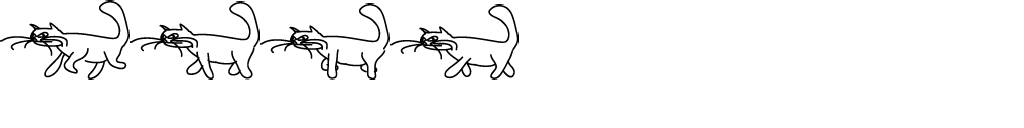
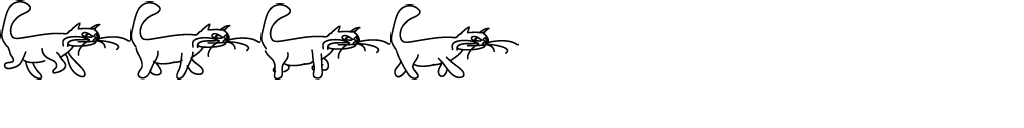
main menu and animation fixes

Changed region(s): [[0.0, 0.0, 0.5312, 0.625]]

diff --git a/Vandalism-Tomatos-core/src/com/turtleGames/vandalism/tomatos/screens/MainMenuScreen.java b/Vandalism-Tomatos-core/src/com/turtleGames/vandalism/tomatos/screens/MainMenuScreen.java
@@ -1,0 +1,159 @@
+package com.turtleGames.vandalism.tomatos.screens;
+
+import com.badlogic.gdx.Gdx;
+import com.badlogic.gdx.Screen;
+import com.badlogic.gdx.graphics.GL20;
+import com.badlogic.gdx.graphics.OrthographicCamera;
+import com.badlogic.gdx.graphics.Texture;
+import com.badlogic.gdx.graphics.g2d.SpriteBatch;
+import com.badlogic.gdx.math.Rectangle;
+import com.badlogic.gdx.math.Vector3;
+import com.turtleGames.vandalism.tomatos.Tomatos;
+import com.turtleGames.vandalism.tomatos.entities.Background;
+
+public class MainMenuScreen implements Screen {
+
+	Tomatos game;
+
+	OrthographicCamera guiCam;
+	Rectangle playBounds;
+	Rectangle highScoreBounds;
+	Rectangle helpBounds;
+	Rectangle quitBounds;
+	Vector3 touchPoint;
+	SpriteBatch spriteBatcher;
+
+	Texture playButtonTex;
+	Texture helpButtonTex;
+	Texture highScoreButtonTex;
+	Texture quitButtonTex;
+	Texture titleTex;
+	Background background;
+
+	int state;
+
+	public MainMenuScreen(Tomatos game) {
+		this.game = game;
+
+		guiCam = new OrthographicCamera(Gdx.graphics.getWidth(),
+				Gdx.graphics.getHeight());
+		guiCam.position.set(Gdx.graphics.getWidth() / 2,
+				Gdx.graphics.getHeight() / 2, 0);
+
+		background = new Background(0, 0,
+				(Texture) game.assetManager.get("data/background.png"));
+
+		titleTex = game.assetManager.get("data/title.png", Texture.class);
+		playButtonTex = game.assetManager.get("data/play.png", Texture.class);
+		quitButtonTex = game.assetManager.get("data/quit.png", Texture.class);
+		helpButtonTex = game.assetManager.get("data/help.png", Texture.class);
+		highScoreButtonTex = game.assetManager.get("data/highscore.png",
+				Texture.class);
+
+		playBounds = new Rectangle(Gdx.graphics.getWidth() / 2
+				- playButtonTex.getWidth() / 2,
+				Gdx.graphics.getHeight() * 0.35f, playButtonTex.getWidth(),
+				playButtonTex.getHeight());
+		highScoreBounds = new Rectangle(Gdx.graphics.getWidth() / 2
+				- highScoreButtonTex.getWidth() / 2,
+				Gdx.graphics.getHeight() * 0.15f,
+				highScoreButtonTex.getWidth(), highScoreButtonTex.getHeight());
+		helpBounds = new Rectangle(0, 0, helpButtonTex.getWidth(),
+				helpButtonTex.getHeight());
+		quitBounds = new Rectangle(Gdx.graphics.getWidth()
+				- quitButtonTex.getWidth(), 0, quitButtonTex.getWidth(),
+				quitButtonTex.getHeight());
+
+		touchPoint = new Vector3();
+		spriteBatcher = new SpriteBatch();
+	}
+
+	@Override
+	public void render(float delta) {
+		update(delta);
+		draw();
+	}
+
+	public void update(float delta) {
+		if (Gdx.input.justTouched()) {
+			guiCam.unproject(touchPoint.set(Gdx.input.getX(), Gdx.input.getY(),
+					0));
+
+			if (playBounds.contains(touchPoint.x, touchPoint.y)) {
+				game.setScreen(new GameOrthoStyleScreen(game));
+			}
+		}
+	}
+
+	public void draw() {
+		Gdx.gl.glViewport(0, 0, Gdx.graphics.getWidth(),
+				Gdx.graphics.getHeight());
+		Gdx.gl.glClear(GL20.GL_COLOR_BUFFER_BIT | GL20.GL_DEPTH_BUFFER_BIT);
+
+		guiCam.update();
+
+		spriteBatcher.setProjectionMatrix(guiCam.combined);
+		spriteBatcher.enableBlending();
+		spriteBatcher.begin();
+
+		spriteBatcher.draw((Texture) background.texture, background.position.x,
+				background.position.y, Gdx.graphics.getWidth(),
+				Gdx.graphics.getHeight());
+
+		drawMenu();
+
+		spriteBatcher.end();
+	}
+
+	private void drawMenu() {
+		spriteBatcher.draw(titleTex,
+				Gdx.graphics.getWidth() / 2 - titleTex.getWidth() / 2,
+				Gdx.graphics.getHeight() * 0.7f, titleTex.getWidth(),
+				titleTex.getHeight());
+		spriteBatcher.draw(playButtonTex, playBounds.x, playBounds.y,
+				playButtonTex.getWidth(), playButtonTex.getHeight());
+		spriteBatcher.draw(helpButtonTex, helpBounds.x, helpBounds.y,
+				helpButtonTex.getWidth(), helpButtonTex.getHeight());
+		spriteBatcher.draw(highScoreButtonTex, highScoreBounds.x,
+				highScoreBounds.y, highScoreButtonTex.getWidth(),
+				highScoreButtonTex.getHeight());
+		spriteBatcher.draw(quitButtonTex, quitBounds.x, quitBounds.y,
+				quitButtonTex.getWidth(), quitButtonTex.getHeight());
+	}
+
+	@Override
+	public void resize(int width, int height) {
+		// TODO Auto-generated method stub
+
+	}
+
+	@Override
+	public void show() {
+		// TODO Auto-generated method stub
+
+	}
+
+	@Override
+	public void hide() {
+		// TODO Auto-generated method stub
+
+	}
+
+	@Override
+	public void pause() {
+		// TODO Auto-generated method stub
+
+	}
+
+	@Override
+	public void resume() {
+		// TODO Auto-generated method stub
+
+	}
+
+	@Override
+	public void dispose() {
+		// TODO Auto-generated method stub
+
+	}
+}

diff --git a/Vandalism-Tomatos-core/src/com/turtleGames/vandalism/tomatos/classes/WorldRendererOrthoStyle.java b/Vandalism-Tomatos-core/src/com/turtleGames/vandalism/tomatos/classes/WorldRendererOrthoStyle.java
@@ -9,8 +9,6 @@ import com.badlogic.gdx.graphics.g2d.TextureRegion;
 import com.badlogic.gdx.graphics.g3d.ModelBatch;
 import com.badlogic.gdx.graphics.glutils.ShapeRenderer;
 import com.badlogic.gdx.math.Circle;
-import com.badlogic.gdx.math.Rectangle;
-import com.badlogic.gdx.math.Vector2;
 import com.badlogic.gdx.math.Vector3;
 import com.turtleGames.vandalism.tomatos.Tomatos;
 import com.turtleGames.vandalism.tomatos.entities.Projectile;
@@ -25,6 +23,8 @@ public class WorldRendererOrthoStyle {
 	SpriteBatch spriteBatcher;
 	ModelBatch modelBatcher;
 	ShapeRenderer shapeRenderer;
+
+	private int sideX;
 
 	public WorldRendererOrthoStyle(SpriteBatch spriteBatcher,
 			ModelBatch modelBatcher, WorldOrthoStyle world, Tomatos game) {
@@ -77,56 +77,51 @@ public class WorldRendererOrthoStyle {
 		spriteBatcher.enableBlending();
 		spriteBatcher.begin();
 
+		TextureRegion textureReg = null;
+		Texture texture = null;
+
 		for (Target target : world.targets) {
+
+			sideX = target.velocity.x < 0 ? -1 : 1;
+
 			if (target.getState() == Target.WALKING) {
 				/* getAnimation(type, dimensions); */
 				Animation animation = game.assets.getAnimation(target.type);
-				TextureRegion texture = animation.getKeyFrame(target.stateTime,
-						true);
-
-				spriteBatcher.draw(texture, target.spacePos.x,
-						target.spacePos.y, target.dimensions.x,
-						target.dimensions.y);
+				textureReg = animation.getKeyFrame(target.stateTime, true);
+				texture = null;
 			} else if (target.getState() == Target.HIT) {
-				Texture texture = null;
-
+				textureReg = null;
 				switch (target.type) {
 					case Target.TARGET1:
 						texture = game.assetManager.get("data/target1Hit.png",
 								Texture.class);
-
-						spriteBatcher.draw(texture, target.spacePos.x,
-								target.spacePos.y, target.dimensions.x,
-								target.dimensions.y);
 						break;
 					case Target.TARGET2:
 						texture = game.assetManager.get("data/target2Hit.png",
 								Texture.class);
-
-						spriteBatcher.draw(texture, target.spacePos.x,
-								target.spacePos.y, target.dimensions.x,
-								target.dimensions.y);
 						break;
 					case Target.DOG:
 						texture = game.assetManager.get("data/dogHit.png",
 								Texture.class);
-
-						spriteBatcher.draw(texture, target.spacePos.x,
-								target.spacePos.y, target.dimensions.x,
-								target.dimensions.y);
 						break;
 					case Target.CAT:
 						texture = game.assetManager.get("data/catHit.png",
 								Texture.class);
-
-						spriteBatcher.draw(texture, target.spacePos.x,
-								target.spacePos.y, target.dimensions.x,
-								target.dimensions.y);
 						break;
 				}
 			} else {
 
 			}
+
+			if (textureReg == null)
+				spriteBatcher.draw(texture, target.spacePos.x,
+						target.spacePos.y, target.dimensions.x * sideX,
+						target.dimensions.y);
+			else
+				spriteBatcher.draw(textureReg, target.spacePos.x,
+						target.spacePos.y, target.dimensions.x * sideX,
+						target.dimensions.y);
+
 		}
 		spriteBatcher.end();
 	}
@@ -139,7 +134,6 @@ public class WorldRendererOrthoStyle {
 		Projectile projectile = world.projectile;
 		if (projectile.update) {
 			Vector3 position = projectile.spacePos;
-			Vector2 dimensions = projectile.dimensions;
 			Circle bounds = projectile.bounds;
 			float stateTime = projectile.stateTime;
 
@@ -193,19 +187,19 @@ public class WorldRendererOrthoStyle {
 		spriteBatcher.end();
 	}
 
-	private void renderShapes() {
-		shapeRenderer.begin(ShapeRenderer.ShapeType.Line);
-		shapeRenderer.setColor(1, 0, 0, 1);
-
-		Circle circle = world.projectile.bounds;
-		shapeRenderer.circle(circle.x, circle.y, circle.radius);
-
-		for (int i = 0; i < world.targets.size; i++) {
-			Target target = world.targets.get(i);
-			Rectangle rect = target.bounds;
-			shapeRenderer.rect(rect.x, rect.y, rect.width, rect.height);
-		}
-
-		shapeRenderer.end();
-	}
+	// private void renderShapes() {
+	// shapeRenderer.begin(ShapeRenderer.ShapeType.Line);
+	// shapeRenderer.setColor(1, 0, 0, 1);
+	//
+	// Circle circle = world.projectile.bounds;
+	// shapeRenderer.circle(circle.x, circle.y, circle.radius);
+	//
+	// for (int i = 0; i < world.targets.size; i++) {
+	// Target target = world.targets.get(i);
+	// Rectangle rect = target.bounds;
+	// shapeRenderer.rect(rect.x, rect.y, rect.width, rect.height);
+	// }
+	//
+	// shapeRenderer.end();
+	// }
 }

diff --git a/Vandalism-Tomatos-core/src/com/turtleGames/vandalism/tomatos/screens/LoadingScreen.java b/Vandalism-Tomatos-core/src/com/turtleGames/vandalism/tomatos/screens/LoadingScreen.java
@@ -90,6 +90,11 @@ public class LoadingScreen implements Screen {
 		game.assetManager.load("data/dogAnim.pack", TextureAtlas.class);
 		game.assetManager.load("data/cat.pack", TextureAtlas.class);
 		game.assetManager.load("data/projectile.pack", TextureAtlas.class);
+		game.assetManager.load("data/title.png", Texture.class);
+		game.assetManager.load("data/play.png", Texture.class);
+		game.assetManager.load("data/help.png", Texture.class);
+		game.assetManager.load("data/highscore.png", Texture.class);
+		game.assetManager.load("data/quit.png", Texture.class);
 
 		game.assetManager.finishLoading();
 
@@ -168,7 +173,7 @@ public class LoadingScreen implements Screen {
 			// screen is touched after the
 			// game is done loading, go to the
 			// main menu screen
-			game.setScreen(new GameScreenOrthoStyle(game));
+			game.setScreen(new MainMenuScreen(game));
 			// }
 		}
 

diff --git a/Vandalism-Tomatos-core/src/com/turtleGames/vandalism/tomatos/screens/GameSimpsonsStyleScreen.java b/Vandalism-Tomatos-core/src/com/turtleGames/vandalism/tomatos/screens/GameSimpsonsStyleScreen.java
@@ -15,7 +15,7 @@ import com.turtleGames.vandalism.tomatos.classes.WorldSimpsonsStyle.WorldListene
 import com.turtleGames.vandalism.tomatos.classes.WorldSimpsonsStyle.WorldState;
 import com.turtleGames.vandalism.tomatos.classes.WorldRendererSimpsonsStyle;
 
-public class GameScreenSimpsonsStyle implements Screen {
+public class GameSimpsonsStyleScreen implements Screen {
 
 	private enum GameState {
 		READY, RUNNING, GAME_OVER
@@ -33,7 +33,7 @@ public class GameScreenSimpsonsStyle implements Screen {
 
 	BitmapFont font;
 
-	public GameScreenSimpsonsStyle(Tomatos game) {
+	public GameSimpsonsStyleScreen(Tomatos game) {
 		this.game = game;
 
 		guiCam = new OrthographicCamera(Gdx.graphics.getWidth(),

diff --git a/Vandalism-Tomatos-core/src/com/turtleGames/vandalism/tomatos/screens/GameOrthoStyleScreen.java b/Vandalism-Tomatos-core/src/com/turtleGames/vandalism/tomatos/screens/GameOrthoStyleScreen.java
@@ -18,7 +18,7 @@ import com.turtleGames.vandalism.tomatos.classes.WorldRendererOrthoStyle;
 import com.turtleGames.vandalism.tomatos.entities.ImpactSetter;
 import com.turtleGames.vandalism.tomatos.entities.Projectile;
 
-public class GameScreenOrthoStyle implements Screen {
+public class GameOrthoStyleScreen implements Screen {
 
 	private enum GameState {
 		READY, RUNNING, GAME_OVER
@@ -39,7 +39,7 @@ public class GameScreenOrthoStyle implements Screen {
 	Music music;
 
 	@SuppressWarnings("deprecation")
-	public GameScreenOrthoStyle(Tomatos game) {
+	public GameOrthoStyleScreen(Tomatos game) {
 		this.game = game;
 
 		guiCam = new OrthographicCamera(Gdx.graphics.getWidth(),
